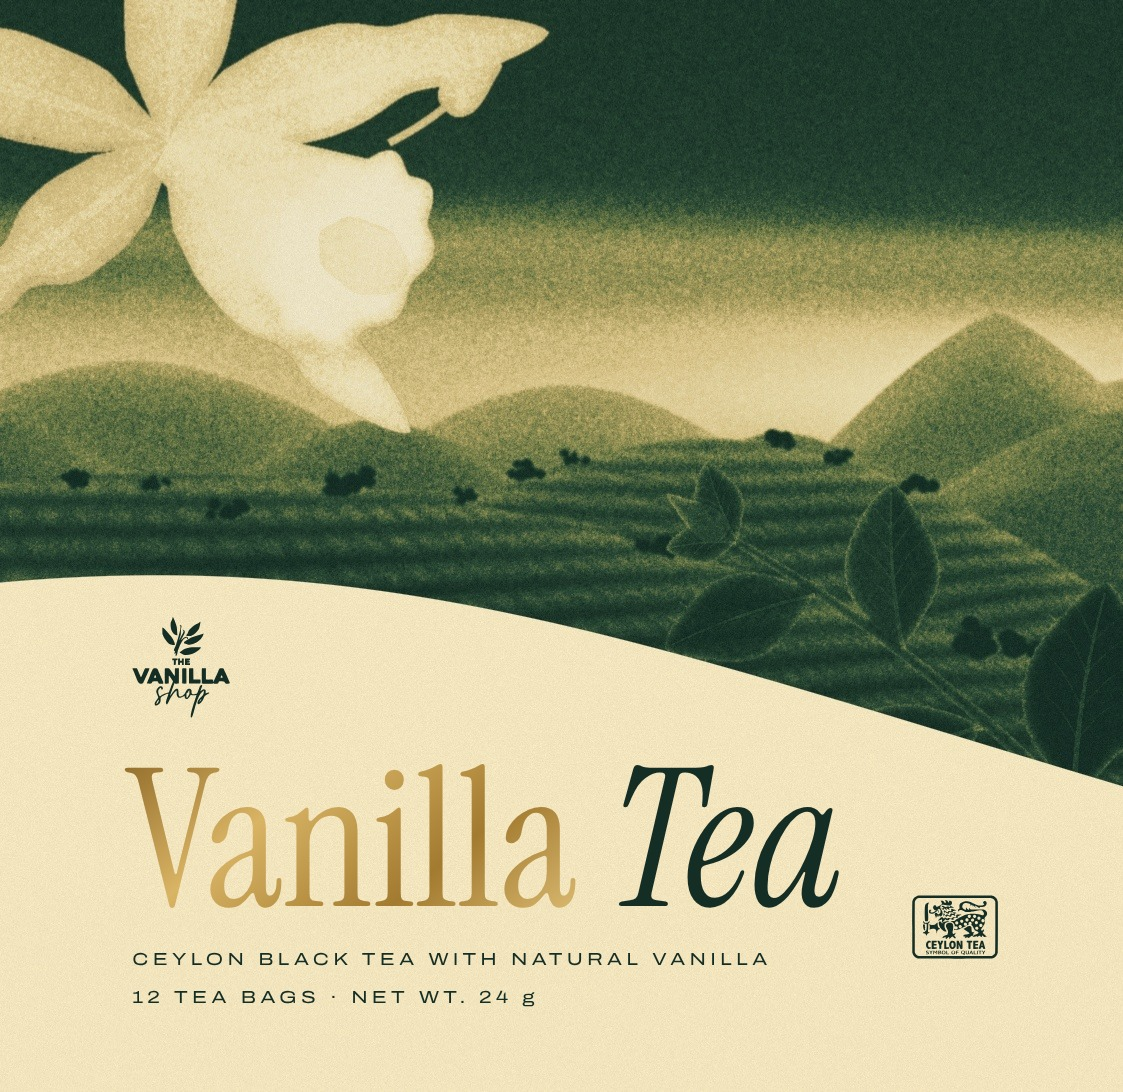
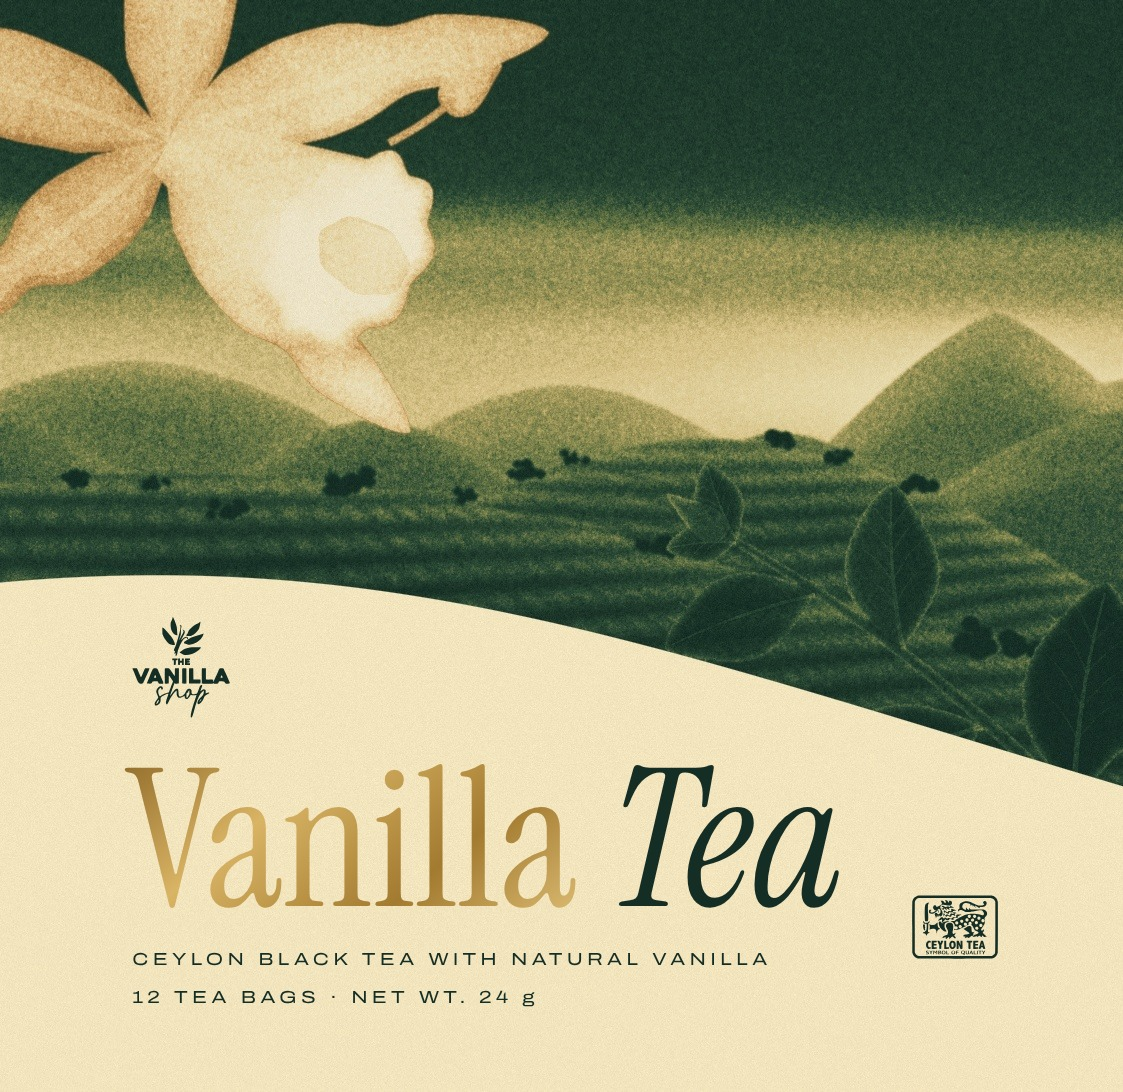
Tea: forest flower shaded in warm honey, its tones spread like the plum
The forest flower ramp's shadow end is honey and amber instead of khaki,
and the flower's tones are spread further across it, so the soft shade
under the lip reads as it does on the plum version.

Claude-Session: https://claude.ai/code/session_01Psd6wLDi15Gf4F1fXEFmxS

diff --git a/vanilla-shop/studies/tea/bandsystem/riso.py b/vanilla-shop/studies/tea/bandsystem/riso.py
@@ -100,12 +100,12 @@ def render(name,ramp,fr=None,gam=1.0):
     fv=0.68+0.16*sh+0.22*heart-0.17*np.exp(-ins/0.8)-0.22*lip_shadow(h,w)
     fv=np.clip(fv,0,1)
     v=grain(L,0.075,21)**gam; out=H.ramp(v,ramp)                                                  # gam>1: deeper darks, the light kept
-    fg=grain(fv,0.075,23); fo=H.ramp(fg,ramp) if fr is None else H.ramp(np.clip((fg-0.45)/0.55,0,1),fr)   # the flower keeps its own warm light
+    fg=grain(fv,0.075,23); fo=H.ramp(fg,ramp) if fr is None else H.ramp(np.clip((fg-0.56)/0.44,0,1),fr)   # the flower keeps its own warm light
     out=out*(1-af[...,None])+fo*af[...,None]
     out*=(1-0.06*np.clip(nz(h,w,40*K,40*K,5),0,1))[...,None]                                            # faint unevenness of a print
     out+=np.random.default_rng(5).normal(0,3.0,(h,w))[...,None]
     Image.fromarray(out.clip(0,255).astype(np.uint8)).save(O+name+'.jpg',quality=95)
-FLOWER={'forest':['#A8935A','#D2BC7E','#E3CD8D','#F5E7B6','#FBF2D2']}
+FLOWER={'forest':['#B9874A','#D8AA68','#EBC98C','#F5E4B3','#FCF3D6']}   # warm honey in the shade, never khaki
 RAMPS={'forest':['#142D25','#30513A','#71804A','#B3A663','#E3CD8D','#F5E7B6'],'plum':['#1C0B1A','#341530','#57203A','#86333B','#BC5A38','#E58A4C','#F5B872','#FCE3A6'],
        'green':['#08171A','#0F2A2C','#17433F','#2C6455','#6F8E62','#C99A5C','#EFC487','#FBEACB']}
 INK={'forest':'#142D25','plum':'#3B1631','green':'#163F3D'}; CREAM={'forest':'#F3E6BE','plum':'#F3E6BE','green':'#F4EEDF'}
